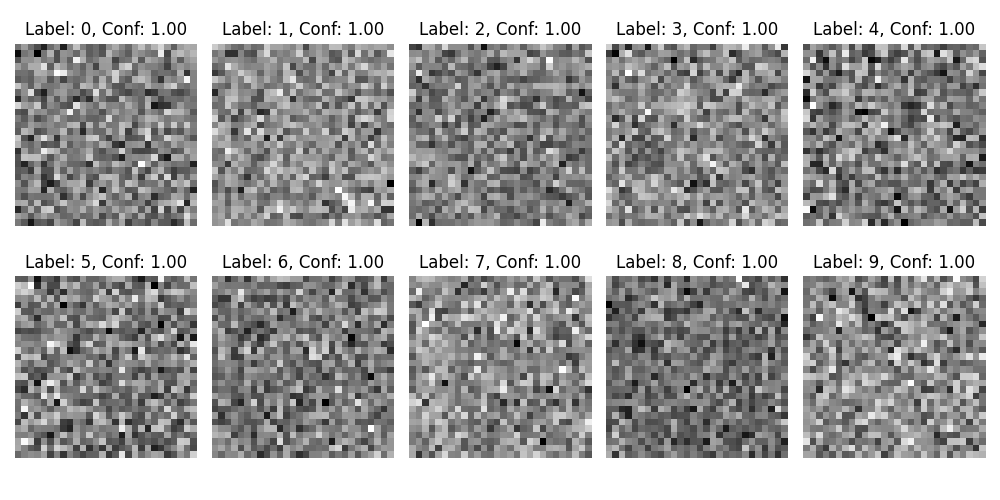
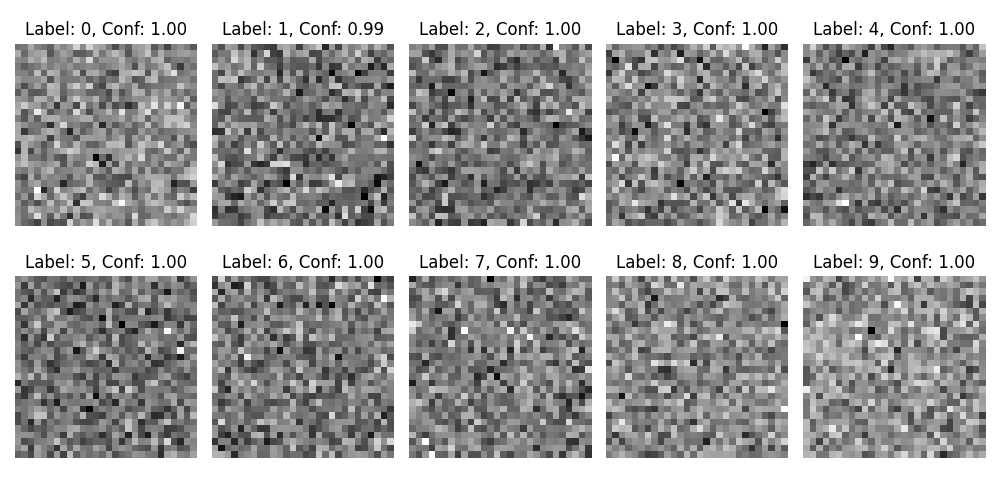
Update README, improve batching

diff --git a/README.md b/README.md
@@ -1,29 +1,31 @@
 # Deceiving Neural Networks: A Case Study with MNIST
 
 ## Overview
-This repository presents a compelling case study on the vulnerability of neural networks to targeted deceptions. By using a Convolutional Neural Network (CNN) trained on the MNIST dataset, we demonstrate how a well-trained model can be deceived into misclassifying manipulated input with high confidence.
+This repository presents a compelling case study on the vulnerability of neural networks to targeted deceptions. By using a Convolutional Neural Network (CNN) trained on the MNIST dataset, I demonstrate how a well-trained model can be deceived into misclassifying manipulated input with high confidence.
 
 ## Objective
-The primary goal of this project is to highlight the ease with which a sophisticated neural network can be tricked. Our experiment involves two key phases:
-1. **Training a CNN on MNIST:** We first train a CNN on the MNIST dataset, a standard benchmark in machine learning for handwritten digit recognition.
-2. **Deceptive Training (Adversarial Attack):** After the CNN is well-trained, we freeze its parameters. We then craft a 'deceptive' image – visually unrecognizable or random gibberish – and train the network to classify this image as a specific digit (e.g., '5') with high confidence (0.99 probability).
+The primary goal of this project is to highlight the ease with which a sophisticated neural network can be tricked. This experiment involves two key phases:
+1. **Training a CNN on MNIST:** First train a CNN on the MNIST dataset, a standard benchmark in machine learning for handwritten digit recognition.
+2. **Deceptive Training (Adversarial Attack):** After the CNN is well-trained, I freeze its parameters, then craft a 'deceptive' image – visually unrecognizable or random gibberish – and train the network to classify this image as a specific digit (e.g., '5') with high confidence (0.99 probability).
 
 ## Methodology
-- **CNN Architecture:** Our model employs a robust architecture suitable for digit recognition, consisting of convolutional layers, max pooling, and fully connected layers.
-- **Adversarial Technique:** We use an adversarial training approach where the input image is iteratively adjusted, keeping the model parameters fixed, to maximize the likelihood of misclassification.
-
-## Implications
-The results of this experiment are crucial for understanding the limitations and vulnerabilities of neural networks, especially in applications where security and reliability are paramount. It underscores the necessity for robust adversarial training and the development of models resilient to such deceptive practices.
+- **CNN Architecture:** The model employs a robust architecture suitable for digit recognition, consisting of convolutional layers, max pooling, and fully connected layers. Possibly an overkill for MNIST, which makes it even better.
+- **Adversarial Technique:** Then use an adversarial training approach where the input image is iteratively adjusted (using gradient descent just like model parameters), keeping the model parameters fixed, to maximize the likelihood of correct classification.
 
 ## Repository Contents
-- `cnn_Training.ipynb`: Jupyter notebook for training the CNN on MNIST.
+- `cnn_training.ipynb`: Jupyter notebook for training the CNN on MNIST.
 - `deceive_mnist.ipynb`: Notebook demonstrating the process of crafting and training the deceptive image.
 - `data/`: Holds the MNIST dataset
 - `models/`: Directory containing the trained CNN model.
 - `images/`: Sample outputs including the deceptive image and its classification result.
 
 ## Usage
-Instructions for setting up the environment, running the notebooks, and replicating the experiment are provided in the respective notebooks.
+Open the notebook, run the notebook, read the comments of the notebook...
 
-## Contributions and Feedback
-Contributions to this project are welcome, especially in the form of improved adversarial attack techniques or more robust network architectures. For feedback or questions, please open an issue in this repository.
+## Results
+The following images show the predicted label, and the confidence (from 0.00 to 1.00) of the model. To be clear, the model achieves a validation error of ~99.2% accuracy on the validation data.
+
+[](./images/mnist_confidence.png)
+
+## Implications
+The results of this experiment are crucial for understanding the limitations and vulnerabilities of neural networks, especially in applications where security and reliability are important. It underscores the necessity for robust adversarial training and the development of models resilient to such deceptive practices.
